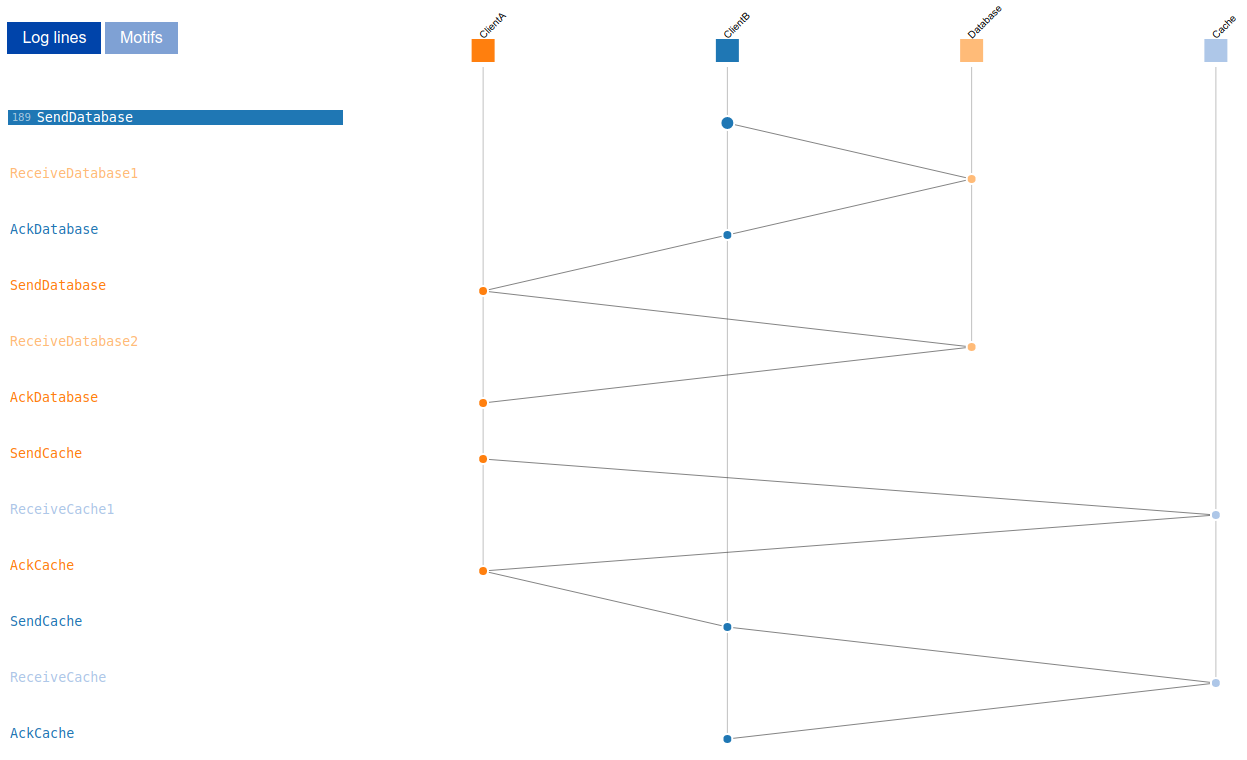
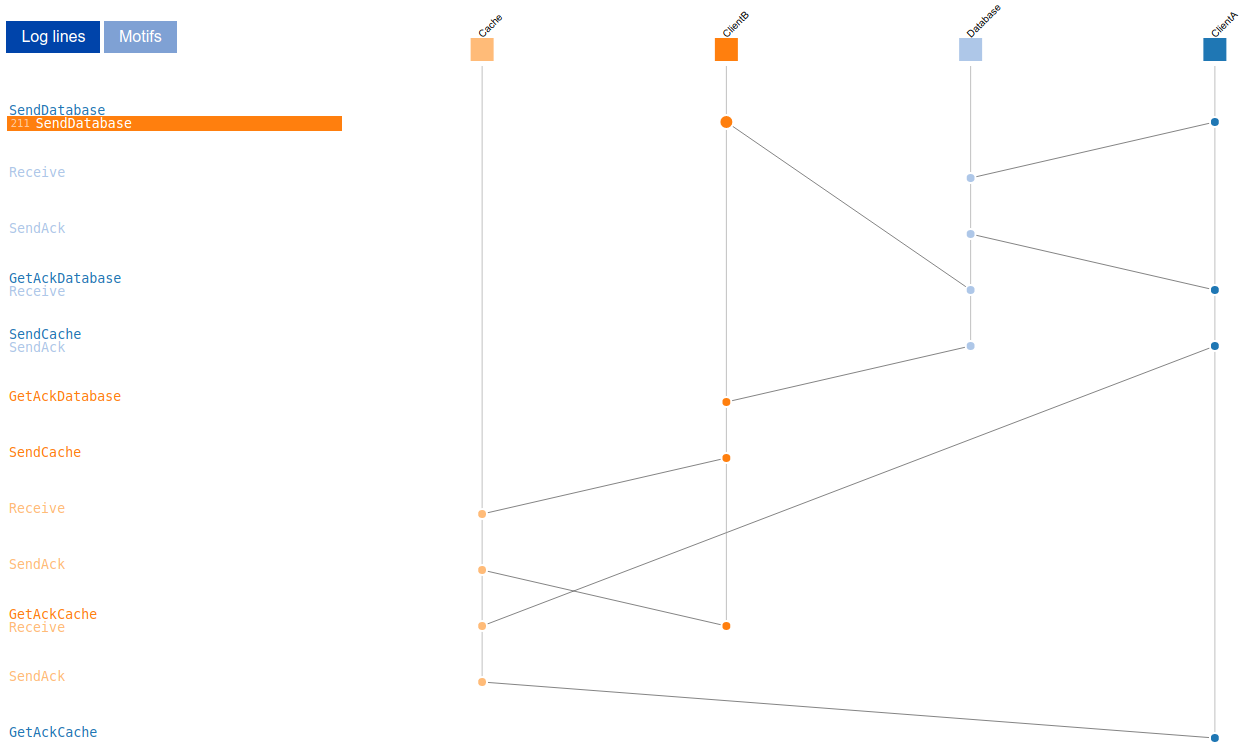
Update readme, images and traces

diff --git a/dual-writes/README.md b/dual-writes/README.md
@@ -4,16 +4,15 @@ Demonstrates a race condition described in https://martin.kleppmann.com/2015/05/
 
 <img src="images/logs-11.png" width="70%">
 
-While [dual_writes.tla](dual_writes.tla) is enough to model the problem, there is also [dual_writes_shiviz.tla](dual_writes_shiviz.tla) which uses the [ShiViz TLA+ community module](https://github.com/tlaplus/CommunityModules/blob/master/modules/ShiViz.tla) as described in this [issue](https://github.com/tlaplus/tlaplus/issues/267#issuecomment-481951259) to produce an error trace which can be used as input to [ShiViz](https://bestchai.bitbucket.io/shiviz/).
+There are three specs which model this problem in slightly different ways:
+* [dual_writes.tla](dual_writes.tla)
+* [dual_writes_shiviz.tla](dual_writes_shiviz.tla)
+* [dual_writes_vector_clock.tla](dual_writes_vector_clock.tla)
 
-Unfortunately this orders the events as they appear in the error trace, which does not need to reflect the causal relationships in the system.
-
-For example we can get the following visualization:
-![good trace](images/good_trace.png)
-
-That seems sensible, but several pairs of events on ClientA and ClientB are connected by a line while in the system we model the clients don't communicate.
-
-We can also get a trace like this, which might confuse more than it helps:
+While [dual_writes.tla](dual_writes.tla) is enough to show the problem, it would be nice to get a visualization of the error similar to the image above. There is a [ShiViz TLA+ community module](https://github.com/tlaplus/CommunityModules/blob/master/modules/ShiViz.tla) which can be used to generate input for [ShiViz](https://bestchai.bitbucket.io/shiviz/) as described in this [issue](https://github.com/tlaplus/tlaplus/issues/267#issuecomment-481951259).  Unfortunately this orders the events as they appear in the error trace, which does not reflect the causal relationships in the system. For example with [dual_writes_shiviz.tla](dual_writes_shiviz.tla)
+we can get a visualization from it's [trace](traces/bad_trace.txt) like this where the lines don't match the message exchange in our system:
 ![bad trace](images/bad_trace.png)
 
-TODO: Try to implement vector clocks in the spec to produce more accurate visualizations.
+To get a more useful visualization we have to implement vector clocks as in [dual_writes_vector_clock.tla](dual_writes_vector_clock.tla):
+![good trace](images/good_trace.png)
+You can use it's [error trace](traces/dual_writes_vector_clock.out) as input to ShiViz to try out the interactive version.
